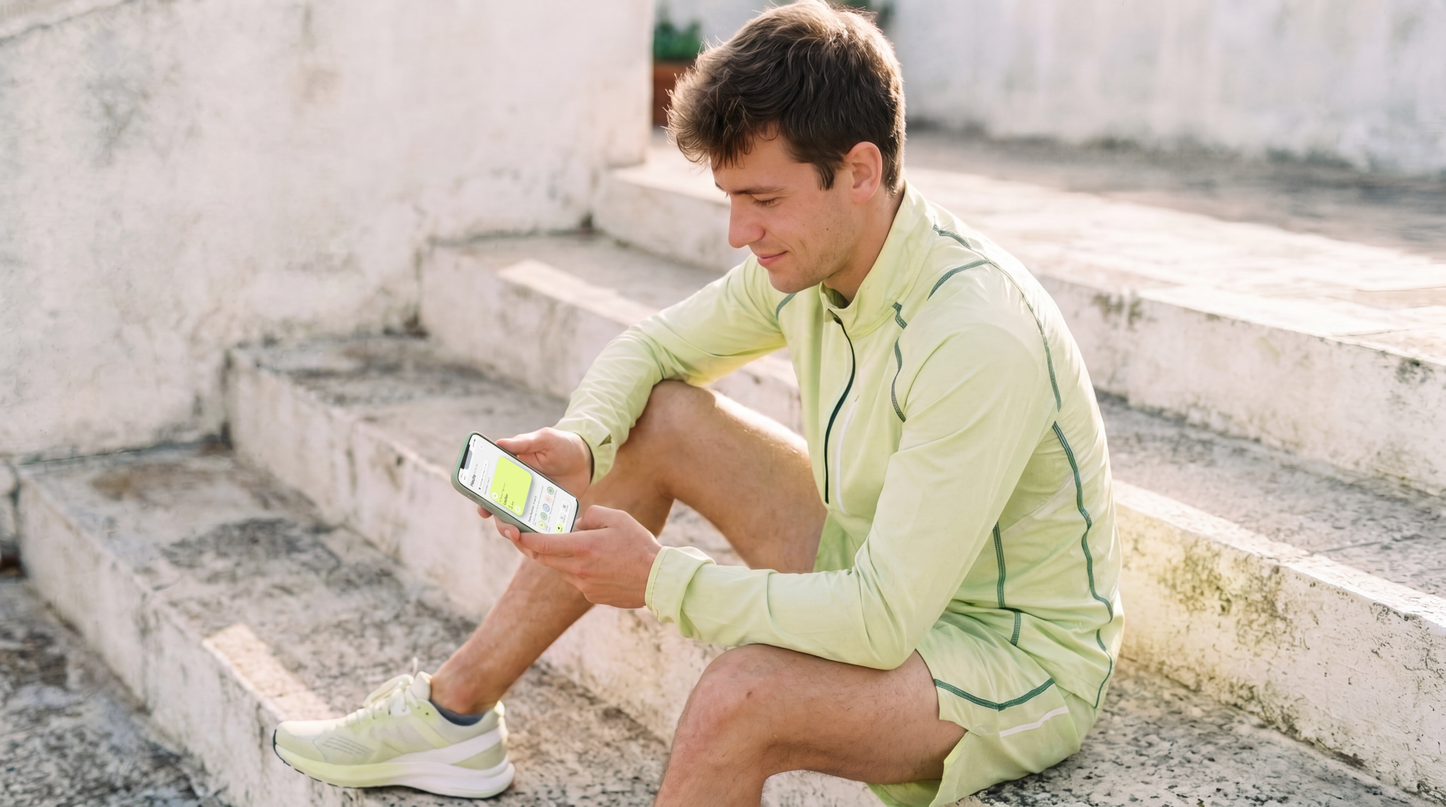
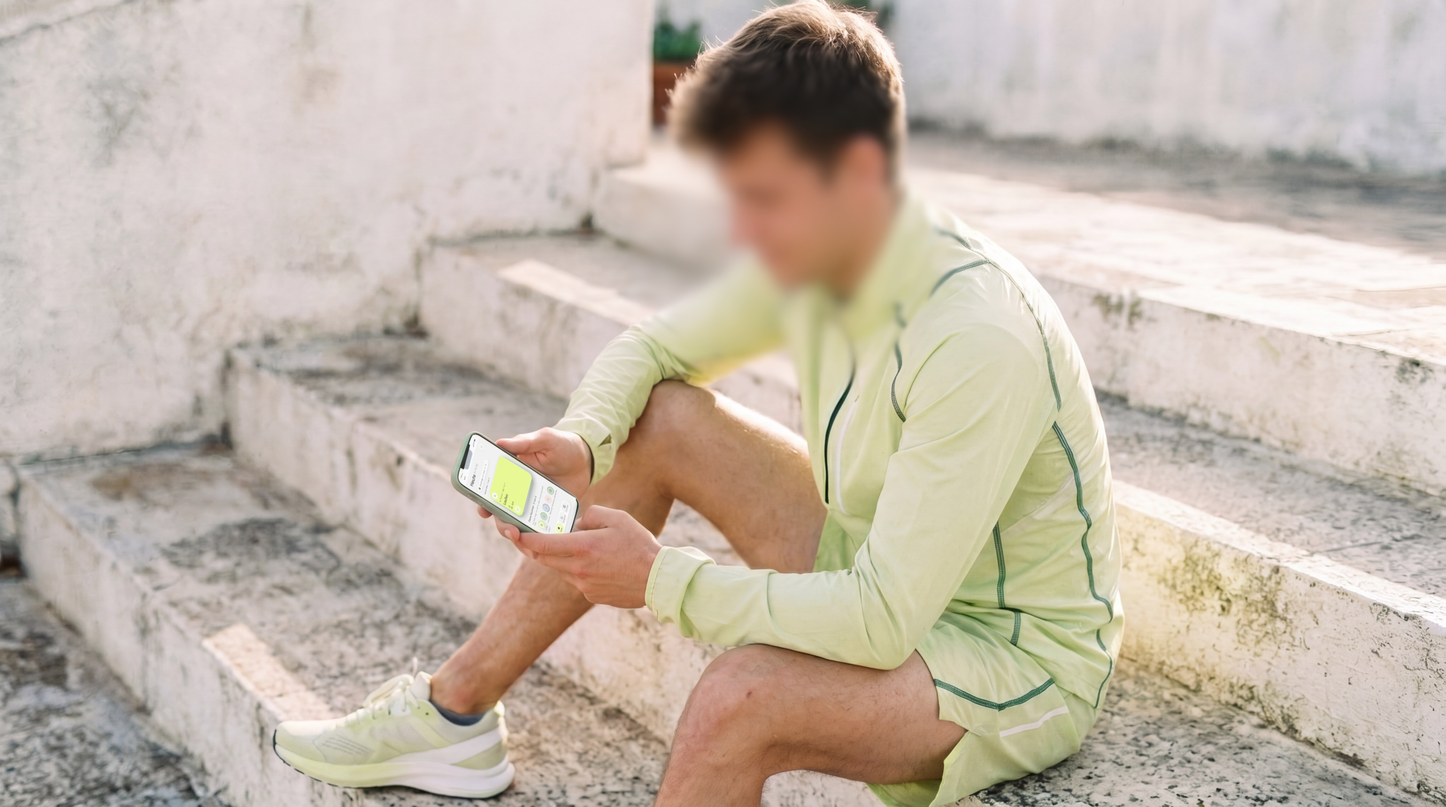
ReSway-Case: Gesicht des Läufers weichgezeichnet

Changed region(s): [[0.4675, 0.0925, 0.6545, 0.4625], [0.4987, 0.4316, 0.5299, 0.4625], [0.4364, 0.1233, 0.4675, 0.1542]]

diff --git a/case-resway.html b/case-resway.html
@@ -64,7 +64,7 @@
       <p class="vi-lead"><span class="vi-mute">ReSway ist keine weitere Tracking-App, die Serien zählt.</span> Sie ist für den Moment danach: wenn eine Routine abgebrochen ist und der Wiedereinstieg am schwersten fällt.</p>
     </div>
     <figure class="vi-img">
-      <svg class="vi-photo" viewBox="320 0 800 768" preserveAspectRatio="xMidYMid slice" role="img" aria-label="Ein junger Mann in hellgrüner Sportkleidung sitzt nach dem Laufen auf Betonstufen und schaut lächelnd auf sein Handy."><image href="media/resway/bild/laeufer.jpg?v=4" width="1408" height="768"/></svg>
+      <svg class="vi-photo" viewBox="320 0 800 768" preserveAspectRatio="xMidYMid slice" role="img" aria-label="Ein junger Mann in hellgrüner Sportkleidung sitzt nach dem Laufen auf Betonstufen und schaut lächelnd auf sein Handy."><image href="media/resway/bild/laeufer.jpg?v=5" width="1408" height="768"/></svg>
       <span class="vi-tag vi-c">[ ReSway App ]</span>
       <figcaption class="sr">Bild KI-generiert, es zeigt die Stimmung, keine echte Person.</figcaption>
     </figure>

diff --git a/case-resway-en.html b/case-resway-en.html
@@ -64,7 +64,7 @@
       <p class="vi-lead"><span class="vi-mute">ReSway isn’t another habit tracker counting streaks.</span> It’s built for what comes after: the moment a routine breaks and starting again feels hardest.</p>
     </div>
     <figure class="vi-img">
-      <svg class="vi-photo" viewBox="320 0 800 768" preserveAspectRatio="xMidYMid slice" role="img" aria-label="A young man in light green sportswear sits on concrete steps after a run, smiling at his phone."><image href="media/resway/bild/laeufer.jpg?v=4" width="1408" height="768"/></svg>
+      <svg class="vi-photo" viewBox="320 0 800 768" preserveAspectRatio="xMidYMid slice" role="img" aria-label="A young man in light green sportswear sits on concrete steps after a run, smiling at his phone."><image href="media/resway/bild/laeufer.jpg?v=5" width="1408" height="768"/></svg>
       <span class="vi-tag vi-c">[ ReSway App ]</span>
       <figcaption class="sr">AI-generated image. It shows the mood, not a real person.</figcaption>
     </figure>
